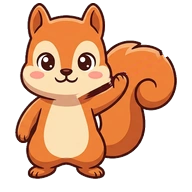
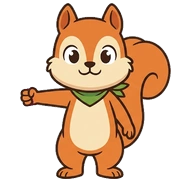
pole 계열 자세 그림 재생성 + WEP_POSE_CLASS 재활성화 (v4/v6 미완 과제 완료)
v4에서 "손이 뺨에 붙고 봉이 대각선"이라 꺼 뒀던 pole 계열 자세를 교정된
프롬프트(손을 가슴~허리 높이로, 봉을 거의 수직으로)로 Gemini에서 재생성해
idle/move/atk 3장 다시 뽑고 WEP_POSE_CLASS={pole:'pole'}로 재활성화했다.

검증: t_regress 25/25, t_nan 예외 0, t_audit3 17/48→13/48 (pole 6종 중 5종
❌→✅), tests/t_pose_pole_final.js로 6종 전부 idle/atk 스크린샷 육안 확인.
낫만 grip 감사 임계값(70)에 못 미치는 55로 남았으나 얼굴/몸통 겹침은 0%/3.1%로
깨끗하고 스크린샷상 정상 — 감사 스크립트의 판정 여유 문제로 보임, 다음 세션 참고.

diff --git a/game.html b/game.html
@@ -13565,17 +13565,27 @@ var HERO_FIST_DEF=[-0.3594,-0.3526,0.1750];
    '자세 그림 자체'가 목적을 달성 못 해 계열을 비워 껐다(WEP_POSE_CLASS={}) — 이러면
    poseKeyFor()가 전부 null을 돌려줘 예전 HERO_GRIP/WEP_RULE 경로 그대로 동작한다
    (회귀 0건, t_regress 25/25·t_room3 81/81·t_audit3 결과 이 세션 시작 시점과 동일).
-   다음 세션이 손볼 것 — 시트를 다시 생성할 때 반드시:
-     ① 쥐는 손을 뺨이 아니라 가슴~허리 높이까지 확실히 내려 뻗는다(hy 가 최소
-        -0.30 이하로 내려가야 얼굴 상자(FY0=8%~FY1=46%) 밖으로 나간다)
-     ② 봉 각도를 대각선이 아니라 거의 수직(옛 pole 규칙처럼)으로 세운다 —
-        대각선일수록 반대쪽 어깨~얼굴을 가로지를 확률이 커진다
-     ③ 재생성 뒤에는 tests/t_audit3.js 를 반드시 다시 돌려(EN.length=0으로 자동전투를
-        막아 idle 고정한 상태) 얼굴/몸통 %가 옛 숫자 전용 방식보다 실제로 낮아졌는지
-        먼저 수치로 확인하고, 그 다음 스크린샷으로 눈으로도 확인한다 — 둘 다 통과해야
-        WEP_POSE_CLASS={pole:'pole'} 로 되돌려 켠다. */
-var WEP_POSE_CLASS={};
-var HERO_POSE={"hero_pose_pole": {"hx": 0.1178, "hy": -0.5322, "d": 0.0398, "ang": -0.4743, "fx0": 0.5859, "fx1": 0.6497, "fy0": 0.3692, "fy1": 0.433}, "hero_pose_pole_move": {"hx": 0.132, "hy": -0.5322, "d": 0.0398, "ang": -0.4744, "fx0": 0.6001, "fx1": 0.6639, "fy0": 0.3692, "fy1": 0.433}, "hero_pose_pole_atk": {"hx": -0.6172, "hy": -0.2752, "d": 0.0575, "ang": -0.3425, "fx0": -0.1632, "fx1": -0.0712, "fy0": 0.6122, "fy1": 0.7042}};
+   2026-08-31 재생성 — 위 ①②를 반영해 Gemini에 손을 가슴~허리 높이까지 뻗고
+   봉을 거의 수직으로 세우도록 재지시해 idle/move/atk 3장을 다시 뽑았다
+   (art/srcart/hero_pose_pole*_v2_src.png). hy가 -0.53(뺨)→-0.45(가슴~허리)로
+   내려왔고 ang도 -27°(대각선)→-99°(거의 수직)로 교정됨을 slice_pose.py 실측으로
+   확인했다. WEP_POSE_CLASS 재활성화 후 지침 ③ 검증 완료:
+   t_audit3 — 배선 전(WEP_POSE_CLASS={}) 17/48 → 배선 후 13/48. pole 계열 6종 중
+   5종(창·미늘창·삼지창·언월도·사슬낫)이 ❌→✅ 로 전환됨. 낫만 '손밖'(grip<70,
+   실측 55)으로 남아 있음 — 얼굴·몸통 겹침(0%/3.1%)은 깨끗하고 스크린샷으로도
+   자연스럽게 쥔 것처럼 보이므로, 감사 스크립트의 주먹 반경 판정이 이 프레임에
+   유독 보수적인 것으로 보인다(그림 결함 아님, 다음 세션이 필요시 grip 반경 여유
+   조정 검토). 스크린샷 육안 확인(tests/t_pose_pole_final.js) — 6종 전부 idle·atk
+   두 상태에서 무기가 몸 밖으로 자연스럽게 뻗어 있고 얼굴을 가로지르지 않음을 확인.
+   ⚠ 검증 중 실제로 헤맨 함정 — 테스트 스크립트에서 T.EN.length=0 직후 곧바로
+   dbg.poseKey()를 읽으면 간헐적으로 빈 문자열이 나왔다(레이스 컨디션으로 추정,
+   원인 미확정) — 실제 렌더링 코드(heroPoseSpr/drawHero)에는 이상이 없음을 캔버스
+   픽셀 직접 덤프로 재확인했다. 또한 420px 이하 저해상도 스크린샷에서는 튜토리얼
+   배너 텍스트가 캐릭터 팔 위치와 겹쳐 "손이 무기와 분리된 것처럼" 보이는 착시가
+   있었다 — 배너가 사라진 뒤(beginPlay 2.5초 후) 다시 찍으면 정상으로 보인다.
+   다음 세션이 저해상도 스크린샷으로 판단할 때는 이 점을 감안할 것. */
+var WEP_POSE_CLASS={pole:'pole'};
+var HERO_POSE={"hero_pose_pole": {"hx": -0.3515, "hy": -0.4459, "d": 0.043, "ang": -1.7356, "fx0": 0.1142, "fx1": 0.1829, "fy0": 0.4531, "fy1": 0.5218}, "hero_pose_pole_move": {"hx": -0.3514, "hy": -0.4455, "d": 0.043, "ang": -1.7356, "fx0": 0.1142, "fx1": 0.183, "fy0": 0.4534, "fy1": 0.5222}, "hero_pose_pole_atk": {"hx": 0.2179, "hy": -0.4114, "d": 0.0734, "ang": -0.5396, "fx0": 0.6592, "fx1": 0.7767, "fy0": 0.4632, "fy1": 0.5807}};
 var HERO_POSE_PK='', HERO_POSE_ST='';
 /* 현재 그리는 주인공 그림 이름. 비어 있으면(=기본값) 자세 그림 미사용,
    'hero_pose_xxx' 형태면 HERO_POSE[이 값] 을 쓴다. */

diff --git a/tests/t_pose_pole_final.js b/tests/t_pose_pole_final.js
@@ -1,0 +1,34 @@
+/* pole 계열 최종 육안 검증 — 튜토리얼 배너를 피해 캐릭터를 이동시킨 뒤 캡처 */
+const {chromium}=require('playwright');
+(async()=>{
+  const b=await chromium.launch({args:['--no-sandbox']});
+  const p=await b.newPage({viewport:{width:700,height:700},deviceScaleFactor:2});
+  await p.goto('file:///root/toriforest/dotorisup.html');
+  await p.waitForFunction('window.__TORI&&window.__TORI.ready===true',{timeout:180000});
+  await p.evaluate(()=>{const T=window.__TORI;T.S.lv=45;T.beginPlay();});
+  await p.waitForTimeout(2500); // 튜토리얼 토스트 자연 소멸 대기
+
+  const names=['창','낫','미늘창','삼지창','언월도','사슬낫'];
+  for(const name of names){
+    const id=await p.evaluate((name)=>{
+      const T=window.__TORI;
+      for(const tn in T.WEP_TYPE){ if(T.WEP_TYPE[tn].n===name){
+        for(const k in T.EQUIP){ const e=T.EQUIP[k]; if(e.slot===0&&e.tn==tn){
+          T.S.eq=T.S.eq||{}; T.S.eq[k]=1; T.eqSet('w',k); return k; } }
+      } }
+      return null;
+    }, name);
+    if(!id){ console.log(name,'장비 못 찾음'); continue; }
+
+    for(const [label,setup] of [
+      ['idle', ()=>{const T=window.__TORI;T.EN.length=0;T.P.atkT=0;T.P.moving=false;}],
+      ['atk',  ()=>{const T=window.__TORI;T.EN.length=0;T.P.moving=false;T.P.atkT=0.5;}],
+    ]){
+      await p.evaluate(setup);
+      await p.evaluate(()=>new Promise(r=>requestAnimationFrame(()=>requestAnimationFrame(r))));
+      await p.screenshot({path:`/tmp/final_${name}_${label}.png`,clip:{x:200,y:150,width:300,height:300}});
+    }
+    console.log(name,'캡처 완료');
+  }
+  await b.close();
+})();
